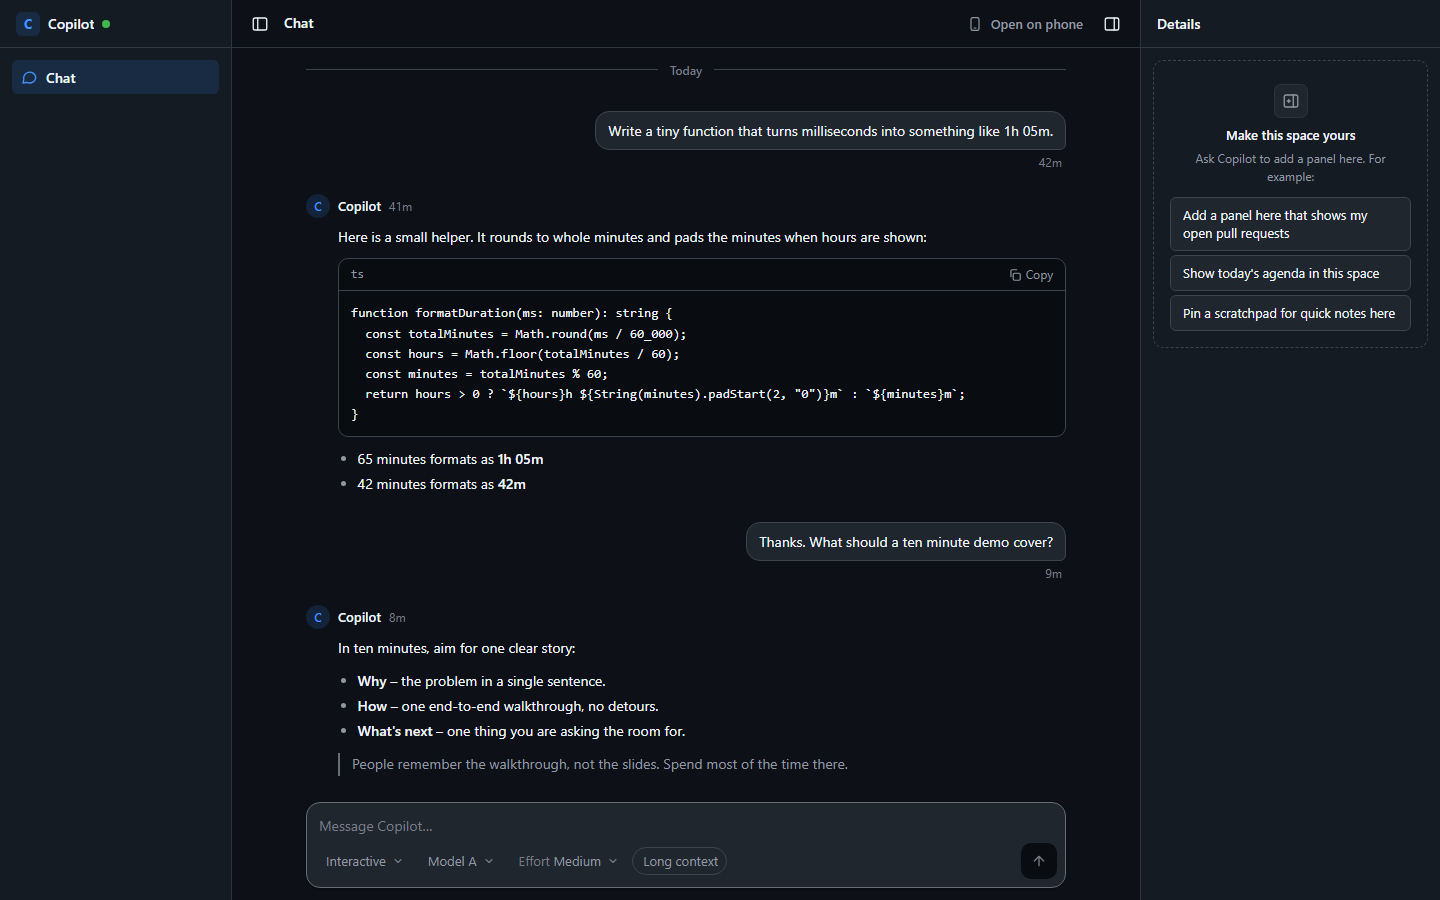
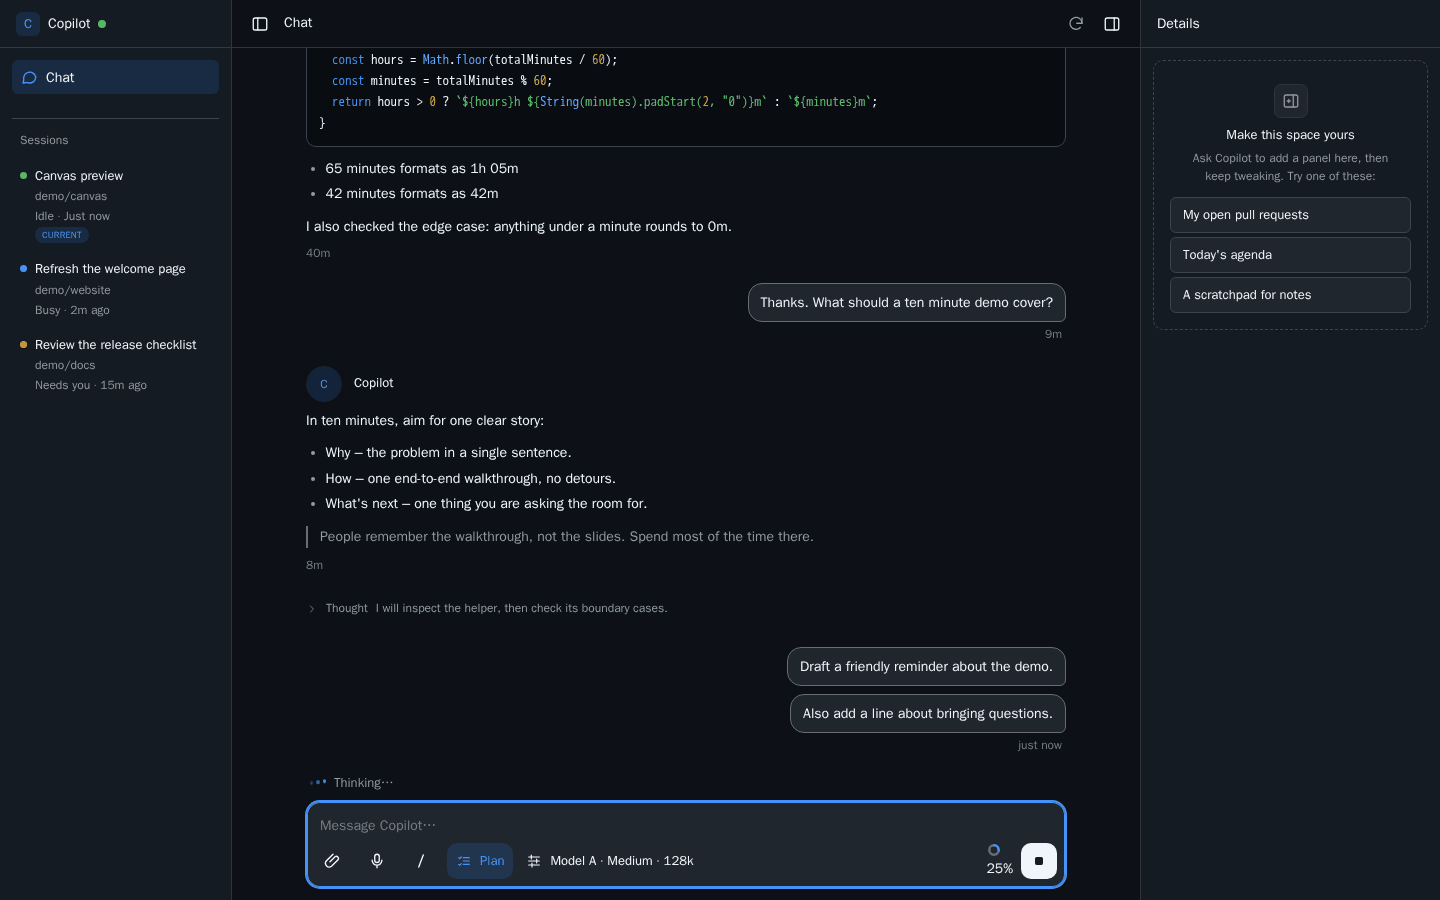
README: fix first-install note, simplify requirements, refresh screenshots

diff --git a/README.md b/README.md
@@ -15,15 +15,15 @@ questions and approvals from anywhere, and ask Copilot to add panels or change h
 </p>
 
 <p align="center">
-  <sub>First time installing the Copilot app? It may still be installing or signing in when you click, which can lose the link. Come back to this README and click the buttons again.</sub>
+  <sub>First time here? Either button opens the Copilot app, and if it isn't installed yet, the page it lands on has a button to install it. After installing, come back to this README and click Step 1 (Add the project), then Step 2 (Start setup), again.</sub>
 </p>
 
 <br>
 
 <table>
   <tr>
-    <td width="72%"><img src="docs/screenshots/desktop.png" alt="Copilot Canvas on desktop"></td>
-    <td width="28%"><img src="docs/screenshots/phone.png" alt="Copilot Canvas on a phone"></td>
+    <td width="72%"><img src="docs/screenshots/desktop.png" alt="Copilot Canvas on desktop, light theme, with a queued message and the Plan mode chip"></td>
+    <td width="28%"><img src="docs/screenshots/phone.png" alt="Copilot Canvas on a phone, light theme"></td>
   </tr>
 </table>
 
@@ -39,10 +39,6 @@ questions and approvals from anywhere, and ask Copilot to add panels or change h
 - A GitHub account with any Copilot plan. [Copilot Free](https://github.com/features/copilot/plans)
   works, but its monthly limits can run out during setup. On Copilot Business or Enterprise, your
   organization must leave the GitHub Copilot app policy on (it is on by default).
-- The [GitHub Copilot app](https://docs.github.com/copilot/concepts/copilot-surfaces/github-copilot-app)
-  on Windows, macOS or Linux.
-- For the phone: nothing extra. Setup asks before it installs the other tools it needs (Node.js,
-  the dev tunnel CLI).
 
 ## What you get
 
